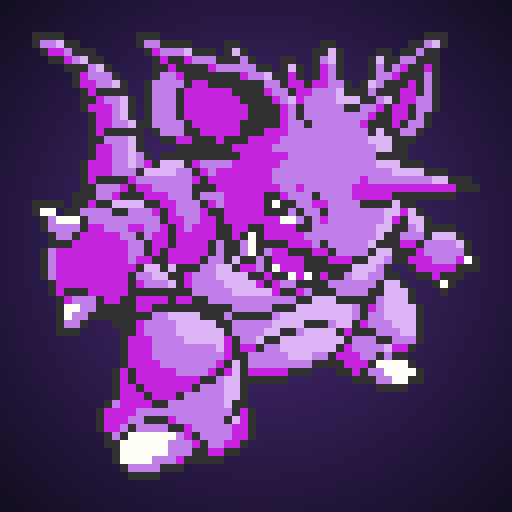
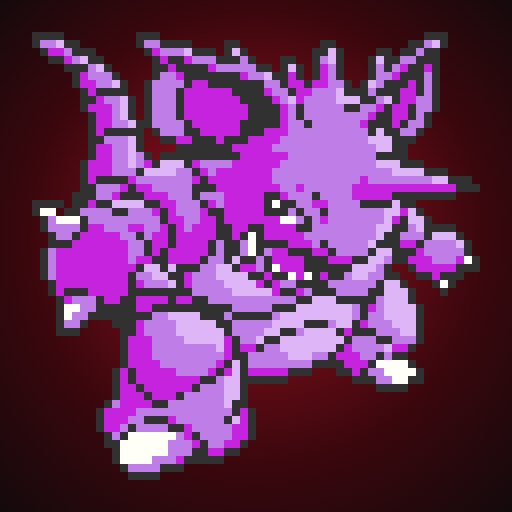
NidoCollection 1.15.0: tema rosso e nero ispirato al Team Rocket
- Palette scura nero profondo + rosso acceso (oro per i dettagli), tema chiaro bianco/rosso
- Icone e logo rigenerati con sfondo rosso-nero dietro lo sprite di Nidoking

diff --git a/style.css b/style.css
@@ -1,40 +1,41 @@
 :root, [data-theme="dark"] {
-  --bg: #0b0d14;
-  --bg2: #10131d;
-  --panel: #151926;
-  --panel2: #1b2031;
+  /* tema Team Rocket: nero profondo, rosso acceso, oro per i dettagli */
+  --bg: #0a0a0b;
+  --bg2: #101012;
+  --panel: #161618;
+  --panel2: #1f1f22;
   --line: rgba(255,255,255,.07);
-  --line2: rgba(255,255,255,.12);
-  --ink: #eef0f7;
-  --ink2: #a9afc4;
-  --ink3: #6f7690;
-  --accent: #8b6cff;
-  --accent2: #ff6a88;
+  --line2: rgba(255,255,255,.13);
+  --ink: #f4f1f1;
+  --ink2: #b6aeae;
+  --ink3: #7a7171;
+  --accent: #e3182d;
+  --accent2: #ff4a5a;
   --gold: #ffc94a;
   --pos: #34d399;
   --neg: #fb7185;
-  --grad: linear-gradient(135deg, #ffcf4a 0%, #ff6a88 50%, #7a5cff 100%);
-  --shadow: 0 10px 30px rgba(0,0,0,.35);
-  --card-bg: #0f121b;
+  --grad: linear-gradient(135deg, #ff5a66 0%, #e3182d 45%, #8a0b16 100%);
+  --shadow: 0 10px 30px rgba(0,0,0,.5);
+  --card-bg: #121214;
   color-scheme: dark;
 }
 [data-theme="light"] {
-  --bg: #f4f5fa;
-  --bg2: #eceef6;
+  --bg: #f6f3f3;
+  --bg2: #eeeaea;
   --panel: #ffffff;
-  --panel2: #f3f4fa;
-  --line: rgba(20,24,40,.08);
-  --line2: rgba(20,24,40,.14);
-  --ink: #171a26;
-  --ink2: #505771;
-  --ink3: #8a90a6;
-  --accent: #6d4dff;
-  --accent2: #e64a6e;
-  --gold: #c98a00;
+  --panel2: #f5f1f1;
+  --line: rgba(30,10,12,.09);
+  --line2: rgba(30,10,12,.16);
+  --ink: #171314;
+  --ink2: #574d4f;
+  --ink3: #8f8486;
+  --accent: #c8102e;
+  --accent2: #e2334a;
+  --gold: #b07800;
   --pos: #0f9f6e;
   --neg: #e11d48;
-  --shadow: 0 8px 24px rgba(30,35,60,.10);
-  --card-bg: #e9ebf3;
+  --shadow: 0 8px 24px rgba(40,10,15,.10);
+  --card-bg: #ece7e7;
   color-scheme: light;
 }
 
@@ -45,7 +46,7 @@ html { overflow-x: hidden; -webkit-text-size-adjust: 100%; text-size-adjust: 100
 body { overflow-x: clip; max-width: 100%; }
 body {
   background: var(--bg);
-  background-image: radial-gradient(1200px 600px at 85% -10%, rgba(139,108,255,.13), transparent 60%), radial-gradient(900px 500px at -10% 110%, rgba(255,106,136,.08), transparent 60%);
+  background-image: radial-gradient(1200px 600px at 85% -10%, rgba(227,24,45,.14), transparent 60%), radial-gradient(900px 500px at -10% 110%, rgba(140,10,22,.16), transparent 60%);
   background-attachment: fixed;
   color: var(--ink);
   font: 14px/1.45 "Segoe UI Variable Text", "Segoe UI", system-ui, -apple-system, "Hiragino Sans", "Yu Gothic UI", Meiryo, sans-serif;
@@ -203,7 +204,7 @@ button.chip { cursor: pointer; }
 .b { font-size: 10.5px; font-weight: 750; letter-spacing: .03em; padding: 2px 6px; border-radius: 6px; background: rgba(10,12,20,.78); color: #fff; backdrop-filter: blur(4px); }
 .b.qty { background: var(--accent); }
 .b.gold { background: linear-gradient(135deg, #ffd96a, #e2a400); color: #2a1d00; }
-.b.v { background: rgba(122,92,255,.85); }
+.b.v { background: rgba(190,16,36,.88); }
 .b.own { background: var(--pos); color: #04281a; }
 .tile-body { padding: 9px 2px 0; min-width: 0; }
 .tile-name { font-weight: 650; white-space: nowrap; overflow: hidden; text-overflow: ellipsis; }

diff --git a/sw.js b/sw.js
@@ -1,7 +1,7 @@
 // Service worker della versione web: tiene in memoria i file dell'app, così si apre anche con rete scarsa.
 // Prima prova la rete (per avere sempre l'ultima versione pubblicata), se non c'è usa la copia salvata.
 // Riguarda solo i file dell'app sul proprio sito: prezzi, immagini e Google passano normalmente.
-const CACHE = 'vetrina-app-v4';
+const CACHE = 'vetrina-app-v5';
 self.addEventListener('install', e => self.skipWaiting());
 self.addEventListener('activate', e => e.waitUntil(
   caches.keys().then(ks => Promise.all(ks.filter(k => k !== CACHE).map(k => caches.delete(k)))).then(() => self.clients.claim())

diff --git a/index.html b/index.html
@@ -3,7 +3,7 @@
 <head>
 <meta charset="utf-8">
 <meta name="viewport" content="width=device-width, initial-scale=1, viewport-fit=cover">
-<meta name="theme-color" content="#0b0d14">
+<meta name="theme-color" content="#0a0a0b">
 <meta name="apple-mobile-web-app-capable" content="yes">
 <meta name="mobile-web-app-capable" content="yes">
 <meta name="apple-mobile-web-app-status-bar-style" content="black-translucent">
